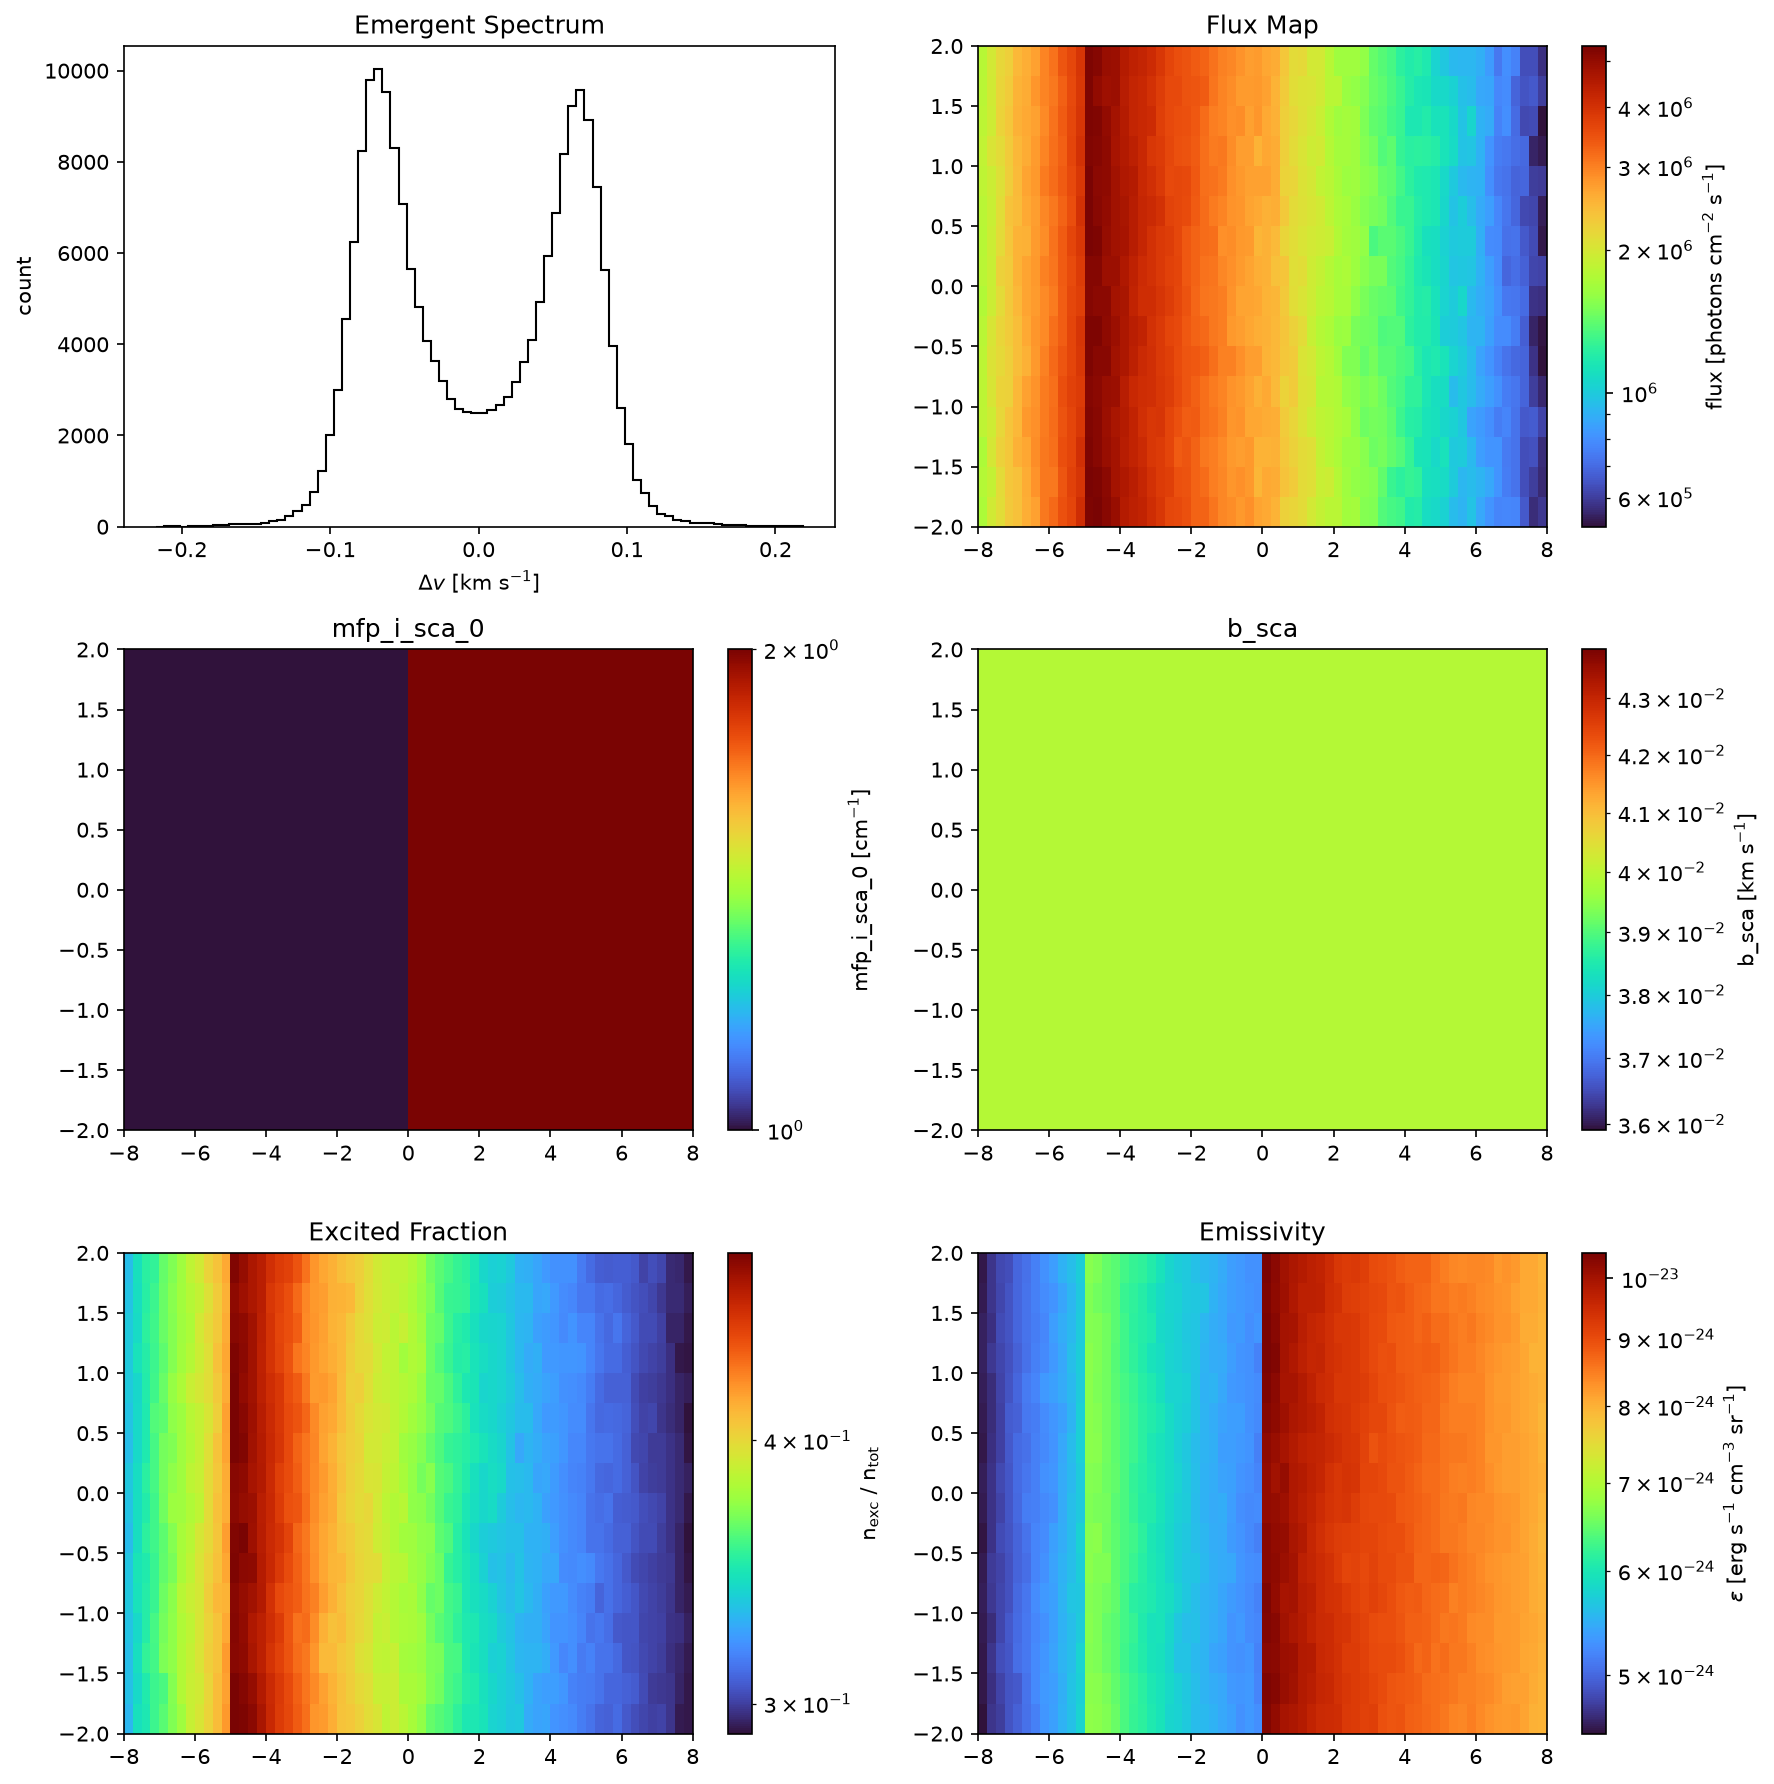
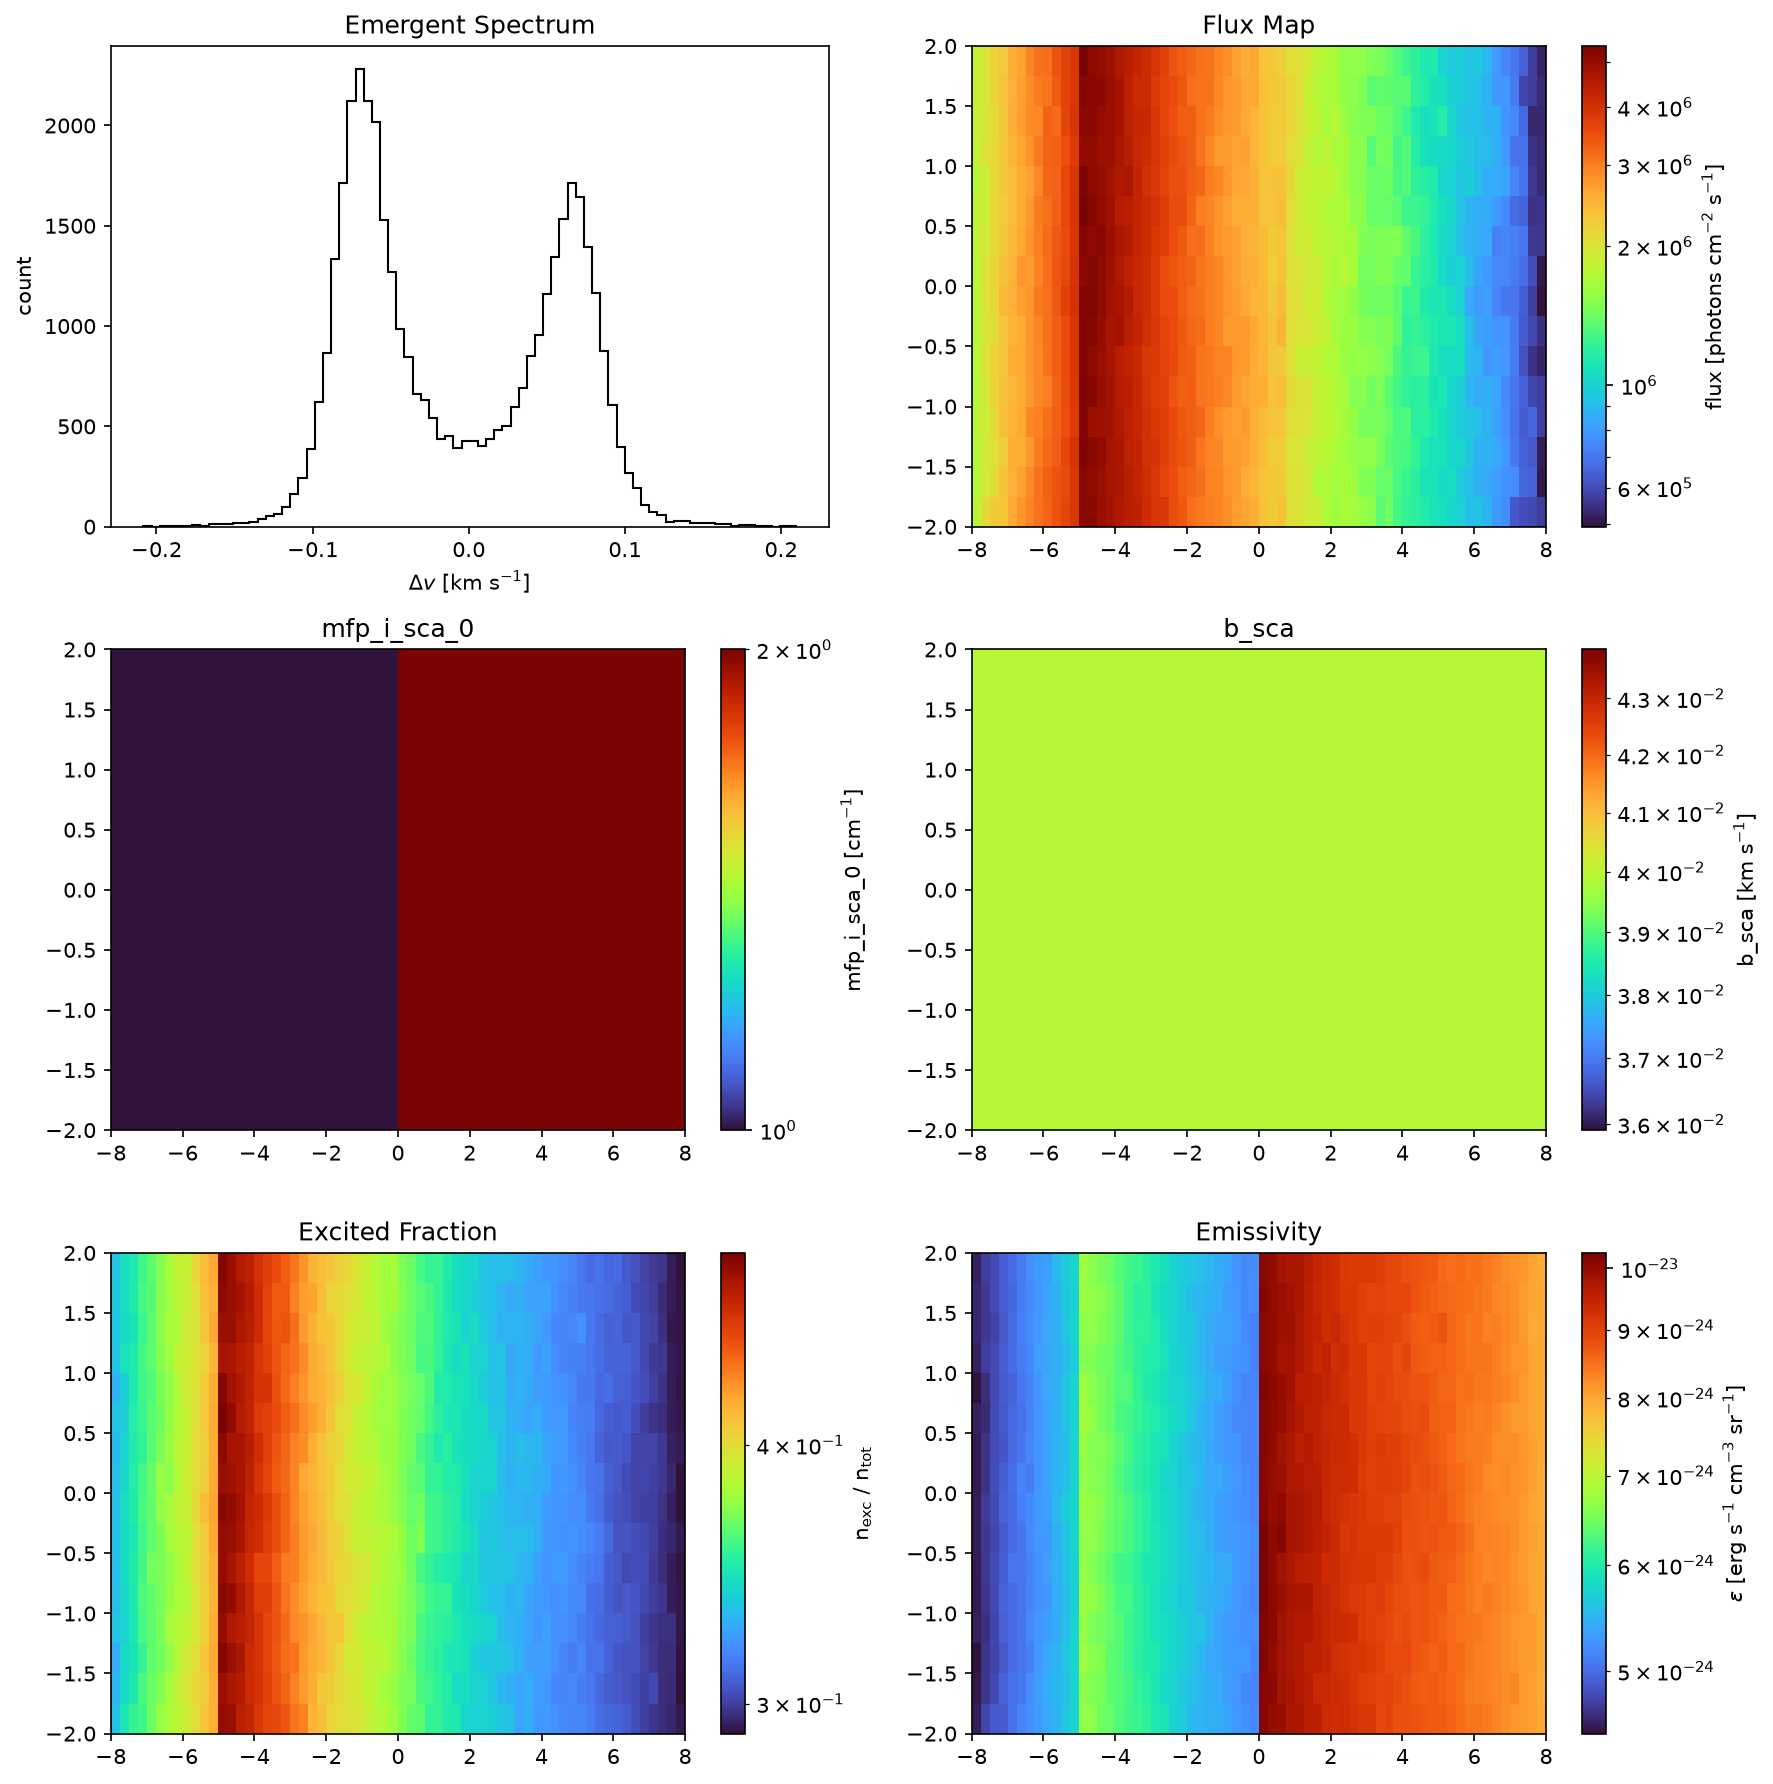
Fixed inconsistent photon appending between cycles.

diff --git a/core/iterator.py b/core/iterator.py
@@ -73,6 +73,12 @@ def iterate( source_photons, species, fields_init, mesh, \
         populations = { 'n0'      : ones( shape3d, dtype = float32 ), \
                         'n_total' : ones( shape3d, dtype = float32 ) };
 
+    # External source photons are FIXED across cycles.  Internal emission
+    # photons are recomputed each cycle from the updated populations and
+    # combined here, so the photon count does not accumulate.
+    ext_source = asarray( source_photons, dtype = float64 ).copy( );
+    emission_ph = None;
+
     fields = dict( fields_init );
     base_fields_cgs = { k: asarray( v, dtype = float64 ).copy( ) \
                         for k, v in fields.items( ) };
@@ -109,7 +115,11 @@ def iterate( source_photons, species, fields_init, mesh, \
                           unit_l0 = unit_l0, group = 'line' );
 
         photon_file = os.path.join( work_dir, 'photons_cycle%d.bin' % cycle );
-        ph_arr = asarray( source_photons, dtype = float64 ).copy( );
+        if emission_ph is None:
+            ph_arr = ext_source;
+        else:
+            ph_arr = vstack( [ ext_source, emission_ph ] );
+        ph_arr = asarray( ph_arr, dtype = float64 ).copy( );
         if ph_arr.shape[ 1 ] >= 8:
             v_factor = unit_t0 / unit_l0;
             ph_arr[ :, 7 ] *= v_factor;
@@ -207,18 +217,18 @@ def iterate( source_photons, species, fields_init, mesh, \
                 populations, transition_idx, temp_field, mesh, \
                 n_per_cell_max = n_emission_max );
             if len( emission_ph ) > 0:
-                n_ext_cols = source_photons.shape[ 1 ];
-                if source_photons.shape[ 1 ] < emission_ph.shape[ 1 ]:
-                    pad = zeros( ( source_photons.shape[ 0 ], \
+                if ext_source.shape[ 1 ] < emission_ph.shape[ 1 ]:
+                    pad = zeros( ( ext_source.shape[ 0 ], \
                                    emission_ph.shape[ 1 ] - \
-                                   source_photons.shape[ 1 ] ) );
-                    source_photons = hstack( [ source_photons, pad ] );
-                elif emission_ph.shape[ 1 ] < source_photons.shape[ 1 ]:
+                                   ext_source.shape[ 1 ] ) );
+                    ext_source = hstack( [ ext_source, pad ] );
+                elif emission_ph.shape[ 1 ] < ext_source.shape[ 1 ]:
                     pad = zeros( ( emission_ph.shape[ 0 ], \
-                                   source_photons.shape[ 1 ] - \
+                                   ext_source.shape[ 1 ] - \
                                    emission_ph.shape[ 1 ] ) );
                     emission_ph = hstack( [ emission_ph, pad ] );
-                source_photons = vstack( [ source_photons, emission_ph ] );
+            else:
+                emission_ph = None;
         else:
             for key in fields:
                 if key.startswith( 'mfp' ):

diff --git a/AGENTS.md b/AGENTS.md
@@ -313,7 +313,7 @@ Full research record: `~/scratch/line_rt/fiducial/neufeld_test.md`
 15. **Boundary `kinds` MUST specify all 6 faces, not 3.** Kratos expects 6 values: `-x, +x, -y, +y, -z, +z`. Writing only 3 leaves the remaining undefined, defaulting to periodic. **The par template default is now all-free** (`fre fre fre fre fre fre`). For plane-parallel slabs, use `par_overrides={'kinds': 'fre fre per per per per'}` or `rt.set_boundary("fre fre per per per per")`.
 16. **Slab sources use `flux`, point sources use `luminosity`.** `add_source` enforces this: passing `luminosity` to a `slab` source or `flux` to a `point` source raises `ValueError`, and each type requires its own quantity (slab needs `flux`, point needs `luminosity`). Quantities default to **photon number** (`flux` in [photons cm⁻² s⁻¹], `luminosity` in [photons/s]); pass `units='energy'` for erg-based values (erg cm⁻² s⁻¹ / erg s⁻¹). With `units='energy'` the conversion uses the `transition_info` wavelength — there is NO `wavelength` argument on `add_source`, and `units='energy'` without a transition raises `ValueError`. The proper per packet = flux × source_area_cm² / n_photon. `LineRt.show_sources()` prints all registered sources.
 17. **Default boundaries are all-free.** Use `set_boundary(kinds)` on `LineRt` or `par_overrides={'kinds': ...}` in `iterate()` to configure boundaries for your geometry.
-18. **Internal emission photons** get added to the source photon array each cycle (`SpeciesData.generate_emission_photons()` at `core/iterator.py:134`). Padded/truncated to match the external source photon column count. Control with `n_emission_max` on `LineRt`.
+18. **Internal emission photons are recomputed each cycle — they do NOT accumulate.** `core/iterator.py` keeps the external `source_photons` array immutable and regenerates emission from the updated populations each cycle (`SpeciesData.generate_emission_photons()`), combining per cycle as `vstack([ext_source, emission_ph])`. The per-cycle photon count is therefore stable (external + fresh emission), NOT growing linearly. Padded/truncated to match the external source photon column count. Control with `n_emission_max` on `LineRt`.
 19. **Regression tests: copy to temp directories, NEVER touch the trunk.** Before testing with historical versions (e.g. git-bisecting a regression), clone the repos to temp directories and work there. Never modify `~/apps/kratos_line_rt/` or `~/Seafile/seafile_sync/code/kratos/` or `~/Seafile/seafile_sync/code/line_rt_pipeline/` for A/B testing.
 
    Template:
